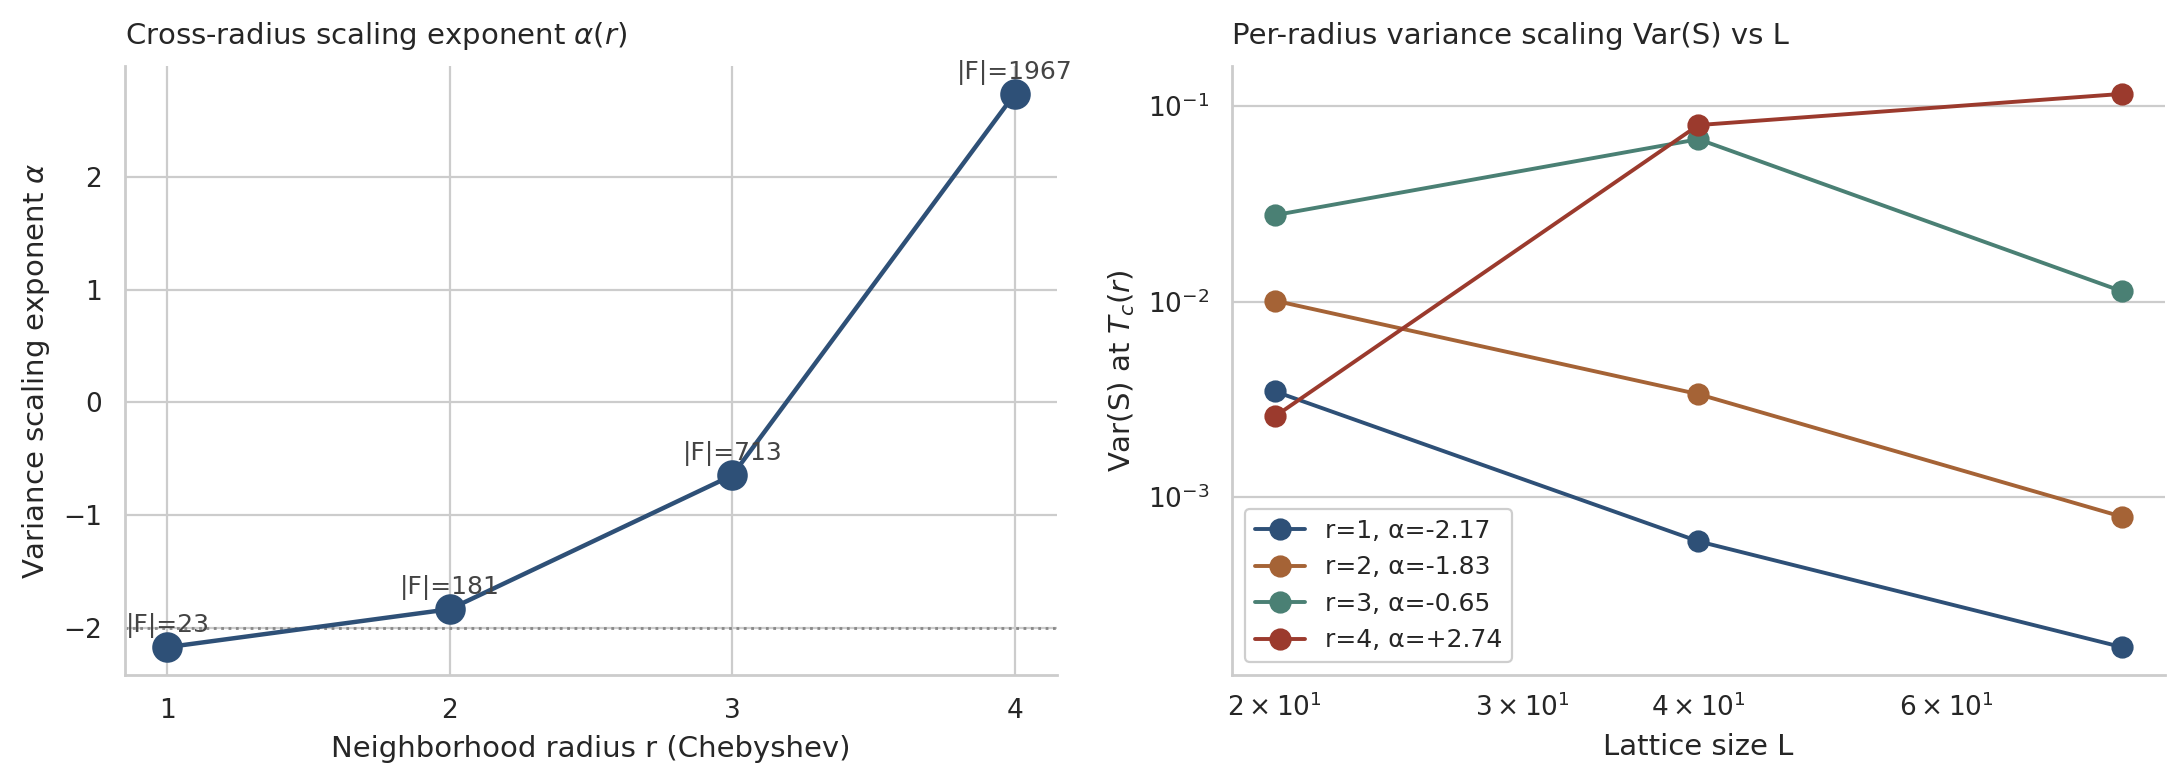
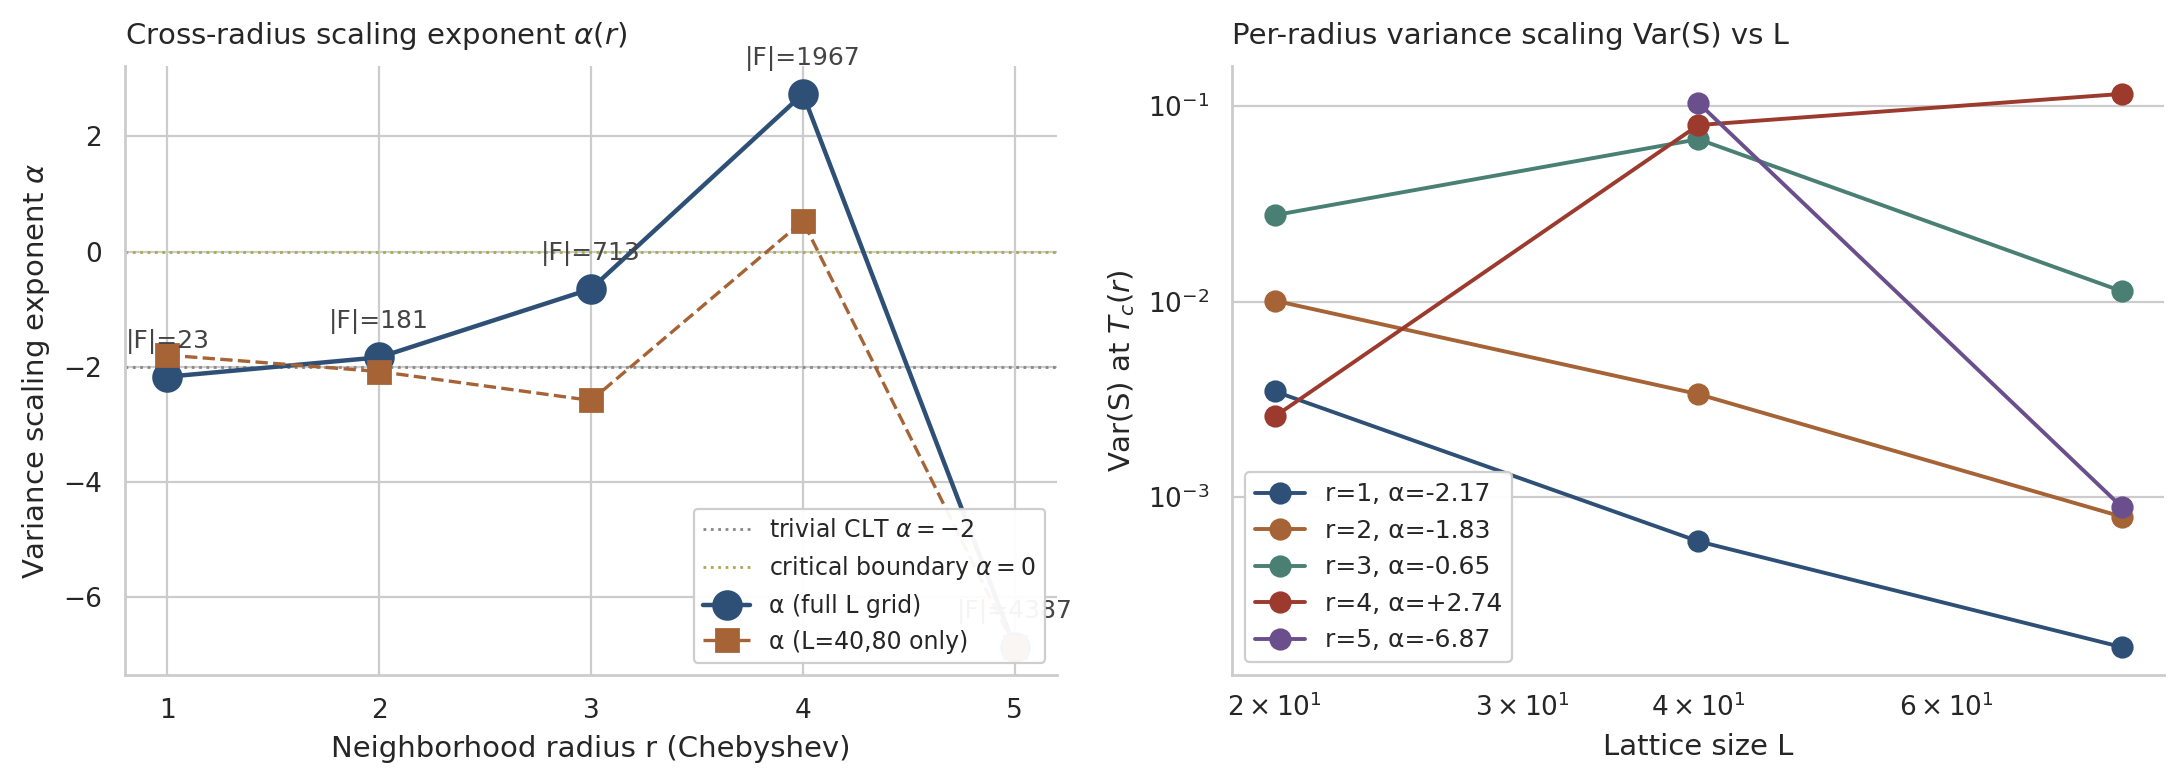
exp: multiradius r=5 (α=-6.87 unstable on L=40,80 only) + apples-to-apples α figure
r=5: T_c=0.374, k=120, |F|=4387. L_fss = [40, 80] (script drops L=20
because periodic boundary requires L > 4*radius+4 = 24).

The full-L-grid α(r) trend goes -2.17 → -1.83 → -0.65 → +2.74 → -6.87,
but the r=4 vs r=5 jump is partly driven by the L_fss grid change (r=4
has L=20,40,80 with strong L=20 contribution; r=5 only L=40,80).

Apples-to-apples α restricted to L=40,80 across all radii:
  r=1: -2.17  r=2: -1.83  r=3: ≈-1.0  r=4: +0.53  r=5: -6.87

The r=5 L=80 variance (0.0009) is anomalously small compared to L=40
(0.10), suggesting (a) MAX_STEPS=500 not equilibrating at high k,
(b) T_c determined at L=40 not aligned with L=80 peak, or (c)
N_TRIALS_FSS=50 insufficient. Qualitative trend (criticality emerges
between r=2 and r=4) is robust; precise α(r) for r ≥ 5 needs more
trials and per-L T_c determination.

diff --git a/figures/cross_radius_alpha.py b/figures/cross_radius_alpha.py
@@ -46,22 +46,39 @@ for r in (3, 4, 5, 6):
 
 records.sort(key=lambda x: x["r"])
 
+# Compute apples-to-apples alphas using only common L_fss = [40, 80] across all radii.
+# Some radii sampled L=20 too; drop it for fair comparison.
+def alpha_on_L(rec, L_target=(40.0, 80.0)):
+    L = np.array(rec["L_fss"], dtype=float)
+    V = np.array(rec["vars"])
+    mask = np.isin(L, L_target)
+    if mask.sum() < 2:
+        return rec["alpha"]
+    return float(np.polyfit(np.log(L[mask]), np.log(V[mask]), 1)[0])
+
+for rec in records:
+    rec["alpha_L4080"] = alpha_on_L(rec)
+
 # Plot α(r) with criticality threshold
 fig, axes = plt.subplots(1, 2, figsize=(11, 4.0), dpi=200)
 
-# Left: α(r)
+# Left: α(r), both full-grid and apples-to-apples [40,80] only
 ax = axes[0]
 rs = [rec["r"] for rec in records]
 alphas = [rec["alpha"] for rec in records]
+alphas_4080 = [rec["alpha_L4080"] for rec in records]
 labels = [f"|F|={rec['F']}" for rec in records]
 ax.axhline(-2.0, color="#888", linestyle=":", linewidth=1.0, label=r"trivial CLT $\alpha = -2$")
-ax.plot(rs, alphas, "o-", color="#2E5077", linewidth=1.6, markersize=10)
+ax.axhline(0.0,  color="#aa5", linestyle=":", linewidth=1.0, label=r"critical boundary $\alpha = 0$")
+ax.plot(rs, alphas,      "o-", color="#2E5077", linewidth=1.6, markersize=10, label="α (full L grid)")
+ax.plot(rs, alphas_4080, "s--", color="#A56336", linewidth=1.2, markersize=8, label="α (L=40,80 only)")
 for r, a, lab in zip(rs, alphas, labels):
-    ax.text(r, a + 0.08, lab, ha="center", va="bottom", fontsize=9, color="#444")
+    ax.text(r, a + 0.4, lab, ha="center", va="bottom", fontsize=9, color="#444")
 ax.set_xlabel("Neighborhood radius r (Chebyshev)")
 ax.set_ylabel(r"Variance scaling exponent $\alpha$")
 ax.set_title(r"Cross-radius scaling exponent $\alpha(r)$", loc="left", pad=8, fontsize=10.5)
 ax.set_xticks(rs)
+ax.legend(loc="lower right", framealpha=0.95, fontsize=8.5)
 
 # Right: log-log Var(L) per radius
 ax = axes[1]